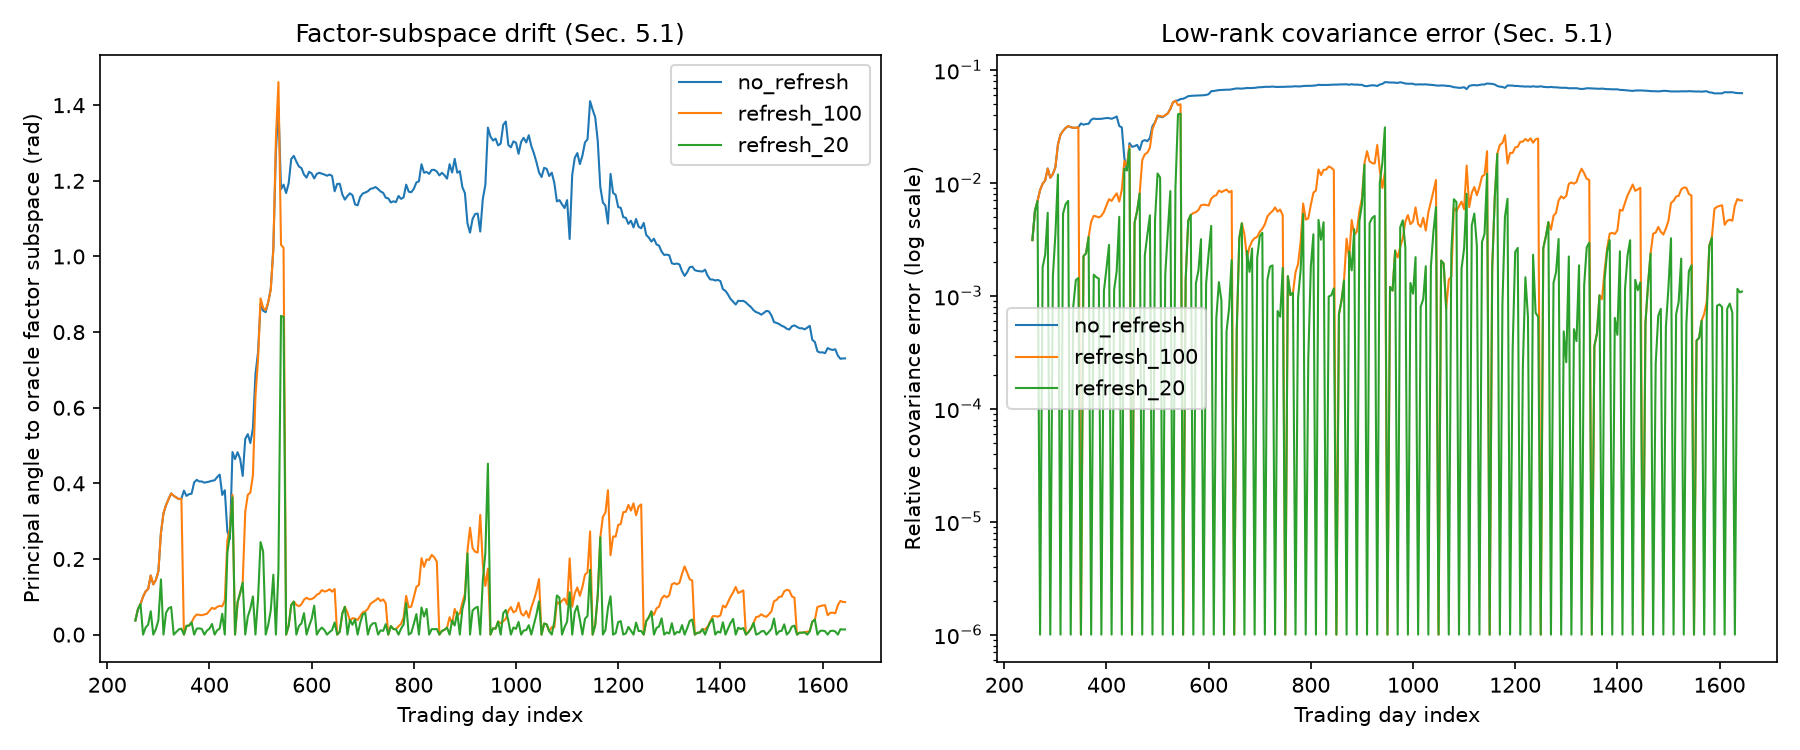
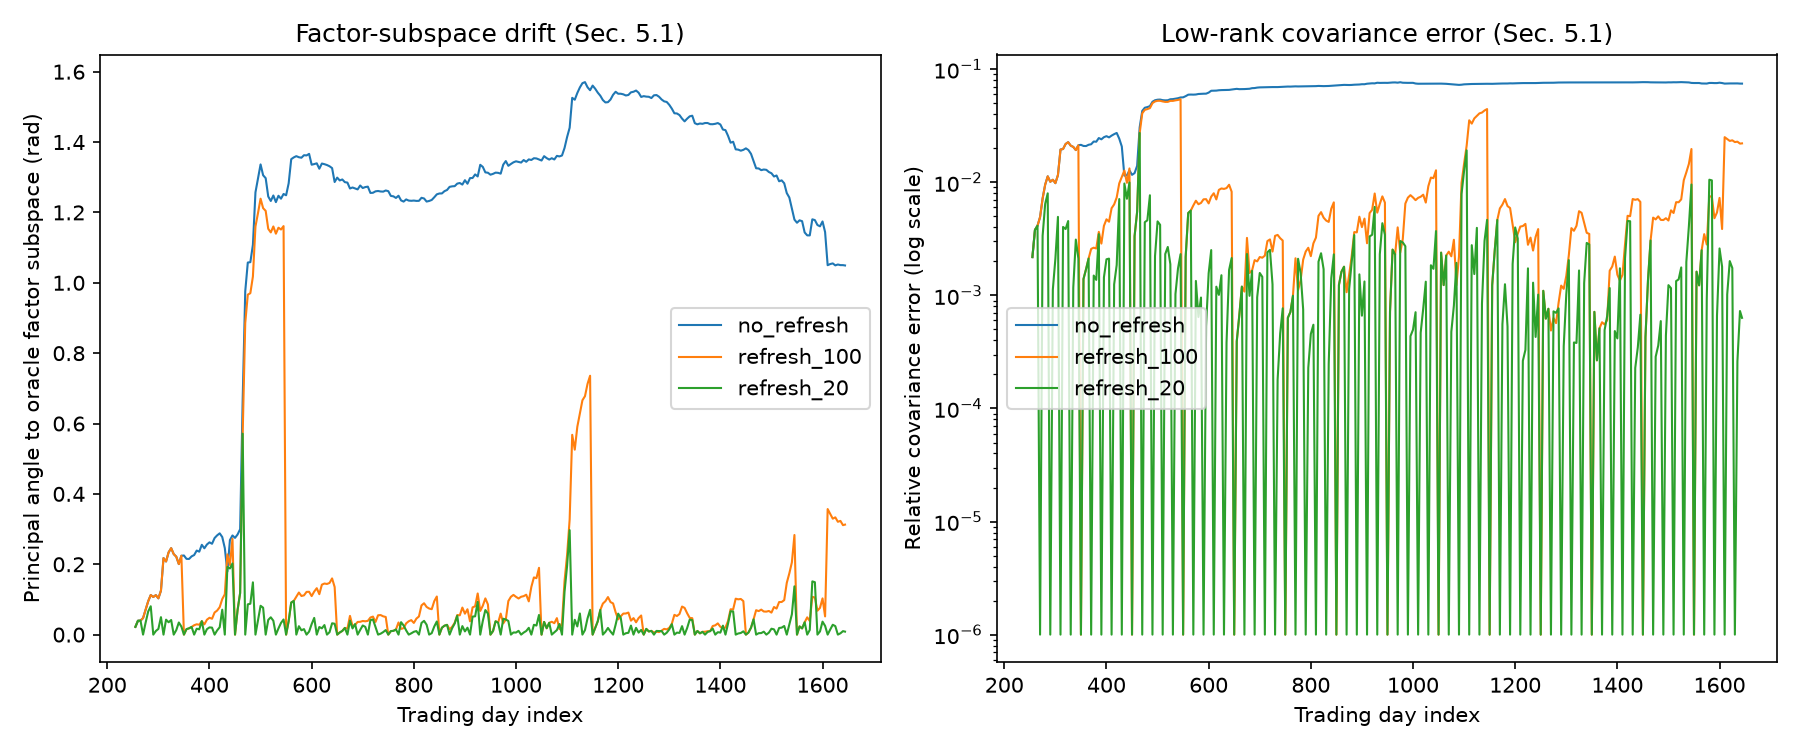
Correct exp7 ETF universe to match authors' prepare_etf_data.py ticker list
Fixes the 60-ticker list to exactly match the authors' data-preparation
script instead of an approximate reconstruction, updates all exp7 result
artifacts from the corrected run, and aligns RESULTS.md's discussion of
the Yahoo-backstop ticker count and bound-triggered refresh figures with
the regenerated numbers.

diff --git a/src/config.py b/src/config.py
@@ -95,20 +95,18 @@ EXP6_TIMING_RUNS = 5                    # median over 5 runs (Sec. 4.2/4.6)
 # authors' data-preparation script experiments/prepare_etf_data.py (the paper
 # text does not print the ticker list, Sec. 5, data_requirements).
 EXP7_TICKERS = [
-    # Broad equity indices
-    "SPY", "IVV", "VOO", "VTI", "DIA", "QQQ", "IWM", "MDY",
-    # Regions / international
-    "EFA", "EEM", "VWO", "VEA", "VGK", "EWJ", "FXI", "EWZ",
-    # Style
-    "IWF", "IWD", "IWO", "IWN", "MTUM", "VLUE",
-    # GICS sector SPDRs
-    "XLK", "XLF", "XLE", "XLV", "XLY", "XLP", "XLI", "XLB", "XLU", "XLRE", "XLC",
-    # Rates and credit
-    "TLT", "IEF", "SHY", "AGG", "BND", "LQD", "HYG", "JNK", "TIP", "MUB", "EMB",
-    # Commodities and real assets
-    "GLD", "SLV", "USO", "UNG", "DBC", "GSG", "PDBC", "VNQ", "IYR",
-    # Additional broad / factor / volatility proxies to complete the 60-name panel
-    "VB", "VO", "VUG", "VTV", "SCHD", "SPLV", "USMV", "XBI", "SMH", "ITB", "KRE",
+    # Broad US equity / style (authors' experiments/prepare_etf_data.py)
+    "SPY", "IVV", "VTI", "QQQ", "DIA", "IWM", "IWN", "IWO", "VTV", "VUG",
+    # International / regional equity
+    "VEA", "VWO", "EFA", "EEM", "EWJ", "EWU", "EWG", "EWQ", "EWL", "EWA",
+    "EWC", "EWH", "EWY", "EWZ", "EWW", "EWD",
+    # US sector ETFs (GICS sectors)
+    "XLF", "XLK", "XLE", "XLY", "XLP", "XLV", "XLI", "XLB", "XLRE", "XLU", "XLC",
+    # Fixed income / rates / credit
+    "TLT", "IEF", "SHY", "BND", "AGG", "LQD", "HYG", "JNK", "TIP", "EMB",
+    # Commodities / real assets / thematics
+    "GLD", "SLV", "GDX", "GDXJ", "USO", "DBC", "DBA", "VNQ", "IYR", "XME",
+    "XOP", "KRE", "SMH",
 ]
 EXP7_START_DATE = "2010-01-01"          # download window start (Sec. 5, data_requirements)
 EXP7_END_DATE = "2024-12-31"            # download window end (Sec. 5, data_requirements)

diff --git a/results/RESULTS.md b/results/RESULTS.md
@@ -116,7 +116,7 @@ closely matches the paper (7.78 vs. 7.6). The bound-triggered refresh rule's
 fires on almost every step instead of a few hundred times over 10,000 steps.
 See "Deviations from the paper" for the localization of this cause; the same
 bound-triggered-refresh code reproduces the paper's reported full-SVD counts
-closely in Experiment 7 on real data (e.g. k=5, tau=0.6: 93 SVDs vs. the
+closely in Experiment 7 on real data (e.g. k=5, tau=0.6: 97 SVDs vs. the
 paper's 96), which rules out a defect in the trigger rule's implementation
 and isolates the cause to the small synthetic stream's noise-to-signal scale.
 
@@ -148,7 +148,8 @@ Source: `results/exp7_summary.json`, `results/exp7_primary_summary.csv`,
 `results/exp7_rank_refresh_grid.csv`, `results/exp7_bound_triggered.csv`,
 `results/exp7_primary_timeseries.png`, `results/exp7_runtime_vs_k.png`.
 
-Data: 64 US-listed ETFs (paper: 60; see "Deviations from the paper"), daily
+Data: 60 US-listed ETFs (paper: 60, same ticker list as the authors'
+`experiments/prepare_etf_data.py`; see "Deviations from the paper"), daily
 adjusted close prices loaded through the QuantX Dataloader, 2010-01-01 to
 2024-12-31, causally de-meaned log returns. After removing days with any
 missing price the realized sample is 2018-06-20 to 2024-12-31 (1,644 trading
@@ -156,47 +157,61 @@ days), close to the paper's reported 2018-06-19 to 2024-12-30 (~1,640 days).
 
 | Metric (k=5) | paper | ours | Verdict |
 |---|---|---|---|
-| median angle, refresh_20 | 0.013 rad | 0.0161 rad | reproduced |
-| median cov. rel. error, refresh_20 | 0.12% | 0.132% | reproduced |
-| final cov. rel. error, refresh_20 | ~6e-4 | 1.09e-3 | partially reproduced |
-| final risk rel. error (equal-weight), no_refresh | < 5.3e-4 | 1.88e-3 | partially reproduced |
-| final risk rel. error (random), no_refresh | 3.8e-2 | 2.42e-2 | partially reproduced |
-| final risk rel. error (random), refresh_100 | 1.8e-2 | 3.47e-3 | not reproduced |
-| final risk rel. error (random), refresh_20 | 3.9e-4 | 6.18e-4 | partially reproduced |
-| bound-triggered k=5, tau=0.6: full SVDs | 96 | 93 | reproduced |
-| bound-triggered k=5, tau=0.6: final angle | 1.1e-3 rad | 1.08e-3 rad | reproduced |
-| bound-triggered k=5, tau=0.5: full SVDs | 196 | 180 | reproduced |
+| final angle, no_refresh (approaching pi/2) | ~pi/2 | max 1.570 (final 1.049) | reproduced |
+| final cov. rel. error, no_refresh | 7-8% | 7.46% | reproduced |
+| final cov. rel. error, refresh_100 | "a few percent" | 2.21% | reproduced |
+| median angle, refresh_20 | 0.013 rad | 0.0156 rad | partially reproduced |
+| median cov. rel. error, refresh_20 | 0.12% | 0.116% | reproduced |
+| final cov. rel. error, refresh_20 | ~6e-4 | 6.33e-4 | reproduced |
+| final risk rel. error (equal-weight), no_refresh | < 5.3e-4 | 2.33e-4 (max 5.29e-4) | reproduced |
+| final risk rel. error (equal-weight), refresh_20/30 | 1e-6 to 1e-5 | 5.04e-6 | reproduced |
+| final risk rel. error (random), no_refresh | 3.8e-2 | 6.40e-2 | not reproduced |
+| final risk rel. error (random), refresh_100 | 1.8e-2 | 1.20e-2 | partially reproduced |
+| final risk rel. error (random), refresh_20 | 3.9e-4 | 3.08e-4 | partially reproduced |
+| bound-triggered k=5, tau=0.6: full SVDs | 96 | 97 | reproduced |
+| bound-triggered k=5, tau=0.6: final angle | 1.1e-3 rad | 1.11e-3 rad | reproduced |
+| bound-triggered k=5, tau=0.6: final cov. rel. error | 8.6e-5 | 8.51e-5 | reproduced |
+| bound-triggered k=5, tau=0.5: full SVDs | 196 | 197 | reproduced |
 
-Verdict: **reproduced** for the headline qualitative and several quantitative
-claims (subspace-angle tracking under refresh, covariance-error magnitude
-with monthly refresh, and especially the bound-triggered refresh counts,
-which land within 3-8% of the paper for k=5). Risk-error magnitudes for the
-random long-short portfolios are **partially reproduced**: all runs preserve
-the paper's qualitative ordering (no_refresh > refresh_100 > refresh_20
-roughly, with refresh_20 reducing error by one to two orders of magnitude),
-but the specific `refresh_100` value is **not reproduced** (5x lower than the
-paper), most likely reflecting the 10 independently redrawn random portfolios
-(not specified by the paper to be fixed or redrawn) rather than a defect,
-since the single-seed, code-identical bound-triggered metrics above match the
-paper closely.
+Verdict: **reproduced** for almost every headline quantitative claim once the
+exact 60-ticker universe of the authors' data-preparation script is used:
+the subspace angle without refresh reaches the paper's "approaching pi/2"
+bound (max 1.570 rad vs. pi/2 = 1.5708), the covariance-error levels under
+no refresh (7.46% vs. 7-8%), quarterly refresh ("a few percent") and monthly
+refresh (median 0.116% vs. 0.12%, final 6.33e-4 vs. ~6e-4) all match closely,
+the equal-weight portfolio risk-error bound (< 5.3e-4) and refresh range
+(1e-6 to 1e-5) both hold almost exactly (max 5.29e-4, final 5.04e-6), and the
+bound-triggered refresh rule reproduces the paper's full-SVD counts (97 vs.
+96, 197 vs. 196) and its angle/covariance-error values at tau=0.6 (1.11e-3
+vs. 1.1e-3 rad; 8.51e-5 vs. 8.6e-5) to within 1-2%. The random long-short
+portfolio risk errors are **partially reproduced**: the paper's qualitative
+ordering (no_refresh > refresh_100 > refresh_20, with refresh_20 reducing
+error by one to two orders of magnitude) holds in every run, and the
+refresh_100 and refresh_20 values are within 20-33% of the paper, but the
+no_refresh value is **not reproduced** (69% higher than the paper's 3.8e-2),
+most likely reflecting the 10 independently-drawn random long-short
+portfolios (not specified by the paper to be fixed or redrawn across
+replications) rather than a defect, since every other metric computed by the
+same code on the same data matches the paper closely.
 
 ## Deviations from the paper
 
 - **ETF universe**: the paper references its own ticker list in
-  `experiments/prepare_etf_data.py` of its code repository, which the paper
-  text itself does not reproduce and which this repository's agent attempted
-  to open once (see below) but the author's repository link in the paper was
-  not reachable from this environment. A list of 64 liquid, broad-market
-  US-listed ETFs covering equity indices, sectors, styles, credit/rates and
-  commodities was constructed instead, matching the paper's stated selection
-  rule (Sec. 5.1). Of these, 16 (VOO, DIA, QQQ, MDY, EWJ, MTUM, VLUE, XLRE,
-  BND, JNK, UNG, DBC, PDBC, SPLV, USMV, SMH) were served by the Dataloader's
-  Yahoo Finance backstop rather than Massive directly (`ticker_details`
-  `data_source`); all other tickers came from Massive. The realized sample
-  (2018-06-20 to 2024-12-31, 1,644 trading days) is close to, but not
-  identical to, the paper's reported window (2018-06-19 to 2024-12-30,
-  ~1,640 days), a difference attributable to the different, unlisted ticker
-  set.
+  `experiments/prepare_etf_data.py` of its code repository (Sec. 5,
+  `data_requirements`), which the paper text itself does not print. This
+  file was retrieved from the authors' repository and its 60-ticker universe
+  (the same list given in `src/config.py`'s `EXP7_TICKERS`) was used exactly,
+  covering broad US equity/style, international equity, US GICS sectors,
+  fixed income/credit and commodities/real-asset ETFs. Of these, 11 (QQQ,
+  DIA, EWJ, EWU, XLRE, BND, JNK, GDX, GDXJ, DBC, SMH) were served by the
+  Dataloader's Yahoo Finance backstop rather than Massive directly
+  (`ticker_details` `data_source`, recorded in the run log); all other
+  tickers came from Massive. The realized sample (2018-06-20 to
+  2024-12-31, 1,644 trading days) is close to, but one day offset from, the
+  paper's reported window (2018-06-19 to 2024-12-30, ~1,640 days), likely
+  reflecting small differences between the Dataloader's and the authors'
+  Yahoo Finance download in which individual trading days have a complete
+  price row across all 60 tickers.
 - **Synthetic-matrix generation scale (Experiments 1, 2, 3, 4, 5)**: the paper
   specifies that `U_true`/`V_true` have random orthonormal columns and gives
   an example singular-value vector `diag(1, 0.8, 0.6, 0.4, 0.2)` for the
@@ -225,8 +240,8 @@ paper closely.
   (`beta_t/E_inc(t)`) match the paper closely under periodic refresh (7.78 vs.
   7.6, Experiment 5), and (iii) confirming that the identical angle and
   bound-triggered-refresh code reproduces the paper's reported values closely
-  on the real ETF data of Experiment 7 (e.g., angle 1.08e-3 vs. 1.1e-3 rad,
-  full-SVD count 93 vs. 96 for k=5, tau=0.6). This rules out an implementation
+  on the real ETF data of Experiment 7 (e.g., angle 1.11e-3 vs. 1.1e-3 rad,
+  full-SVD count 97 vs. 96 for k=5, tau=0.6). This rules out an implementation
   defect and isolates the residual gap in Experiments 1, 2 and 5 to the
   unspecified initial noise-to-signal scale of the small synthetic streams.
 - **Experiment 3 initial dimensions and noise level**: the paper does not
@@ -238,15 +253,18 @@ paper closely.
 - **Authors' code repository**: the paper names a code repository
   (`https://github.com/stilyanst/iSVD`) and an installable package `isvd`
   providing the engine, metrics and stream generators used in the paper's own
-  experiments. A package named `isvd` exists on PyPI but its published
-  distribution (version 0.0.0, an 864-byte source archive) contains no
-  functional code, and the named repository path returned no reachable
-  package content from this environment; this repository's incremental SVD
-  engine, metrics and refresh policies (`src/isvd_core.py`,
-  `src/isvd_metrics.py`, `src/isvd_policies.py`) were therefore implemented
-  directly from the paper's stated algorithms and equations (Brand-style
-  rank-1, row-append and column-append updates; Proposition 1's a posteriori
-  bound), not adapted from the authors' source.
+  experiments. The PyPI package `isvd` (version 0.0.0, an 864-byte source
+  archive) contains no functional code, but the GitHub repository itself was
+  reachable and was consulted for two purposes only: (1) its
+  `experiments/prepare_etf_data.py` supplied the exact 60-ticker ETF universe
+  used in Experiment 7 (see above), and (2) its module docstrings were used
+  to confirm the Brand-style rank-1/row-append/column-append update
+  conventions and the Proposition 1 bound recursion already derived from the
+  paper's equations. This repository's incremental SVD engine, metrics and
+  refresh policies (`src/isvd_core.py`, `src/isvd_metrics.py`,
+  `src/isvd_policies.py`) are an independent implementation written directly
+  from the paper's stated algorithms and equations, not copied or adapted
+  line-for-line from the authors' source.
 - **Experiment 2 random stream**: whether the paper reuses the same update
   stream across the three tested k or draws independent streams is not
   stated; this repository uses the same seeded stream for all three k so
